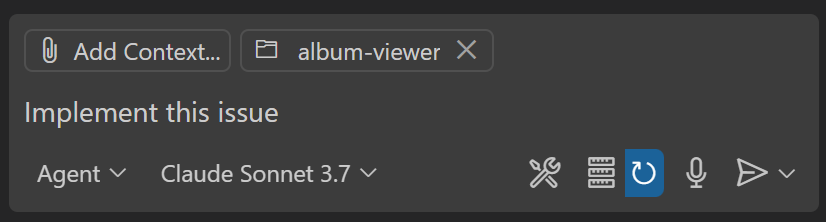
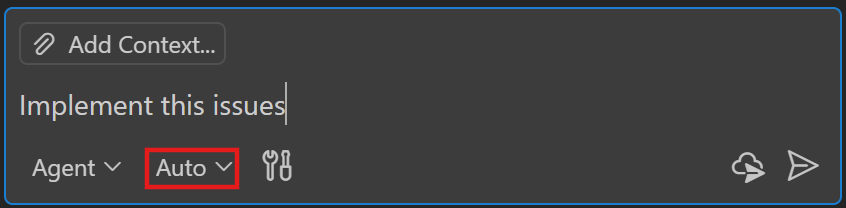
Add Code review instructions

diff --git a/docs/workshop.md b/docs/workshop.md
@@ -998,6 +998,7 @@ Open Copilot in Agent mode and again Select a premium Model (ie: GPT5, Claude So
 Add multi-language support to the album viewer app. Use translations files to define values for each language and add a selector for the language on the header of the application. The default language remain English but we also want to add French and German support.
 ```
 
+Again, when you're happy with the result, create a new commit to save your changes.
 
 ### Setup MCP Servers
 
@@ -1102,7 +1103,12 @@ Accept it and the issue is now created on your project.
 
 ### Step 4: Implement the cart feature
 
-Now that we have an issue let's start working on it's implementation. On the Agent mode, be sure to select a premium model (Claude Sonnet 3.7 here but similar models are fine), add the app folder for better context targeting and simply ask to implement the issue.
+Now that we have an issue let's start working on it's implementation. 
+
+Be sure you're not working direclty on the main branch but switch to a new branch named `feat/cart-feature` for example.
+![new git branch](assets/new-git-branch.png)
+
+On the Agent mode, be sure to select a premium model or simply use the `Auto` model selection that analyse the task and automatically match it to the right model. Add the app folder for better context targeting and simply ask to implement the issue.
 
 ![Start implementation](assets/implement-issue.png)
 
@@ -1144,6 +1150,24 @@ Like this you will have better success rate in generating your end-to-end tests.
 At the end you will have a test file generated and Copilot can help you configure playwright for the project, your pipeline and complete your documentation accordingly. You just need to ask.
 
 ### Step 6: Code Review
+
+Once your code is ready, commit and push all your changes to your `feat/cart-feature` branch.
+![create PR from VSCode](assets/create-pr-vscode.png)
+
+Create a new Pull Request from your branch to the main branch of **your forked repo**
+![create pull request form](assets/create-pull-request-form.png)
+
+Once created the pull request opens on your VS Code. From there or from the GitHub portal, you can assign the PR to be reviewed by Copilot Code Review Agent:
+![assign PR to Copilot](assets/assign-pr-to-copilot.png)
+
+After a few minutes, you'll be able to view the comments from GitHub Copilot Code Review Agent.
+It checks your code for best practices, bugs, potential vulnerabilities... But **it also run a CodeQL scan and a secrets scan** to ensure your code is totally safe.
+
+You can read all the detailed suggestions, and you can review the session to see all the operations the agents went through.
+![Code review by Copilot](assets/code-review-copilot.png)
+You can also decide to assign a task to the coding agent on the platform to fix all theses points for you **but this is something we will experiment later in this lab**.
+
+For the moment, just review and fix the issues in your code that needs to be fixed, run the review again until everything is fixed and merge your branch whenever you are ready.
 
 ---
 
